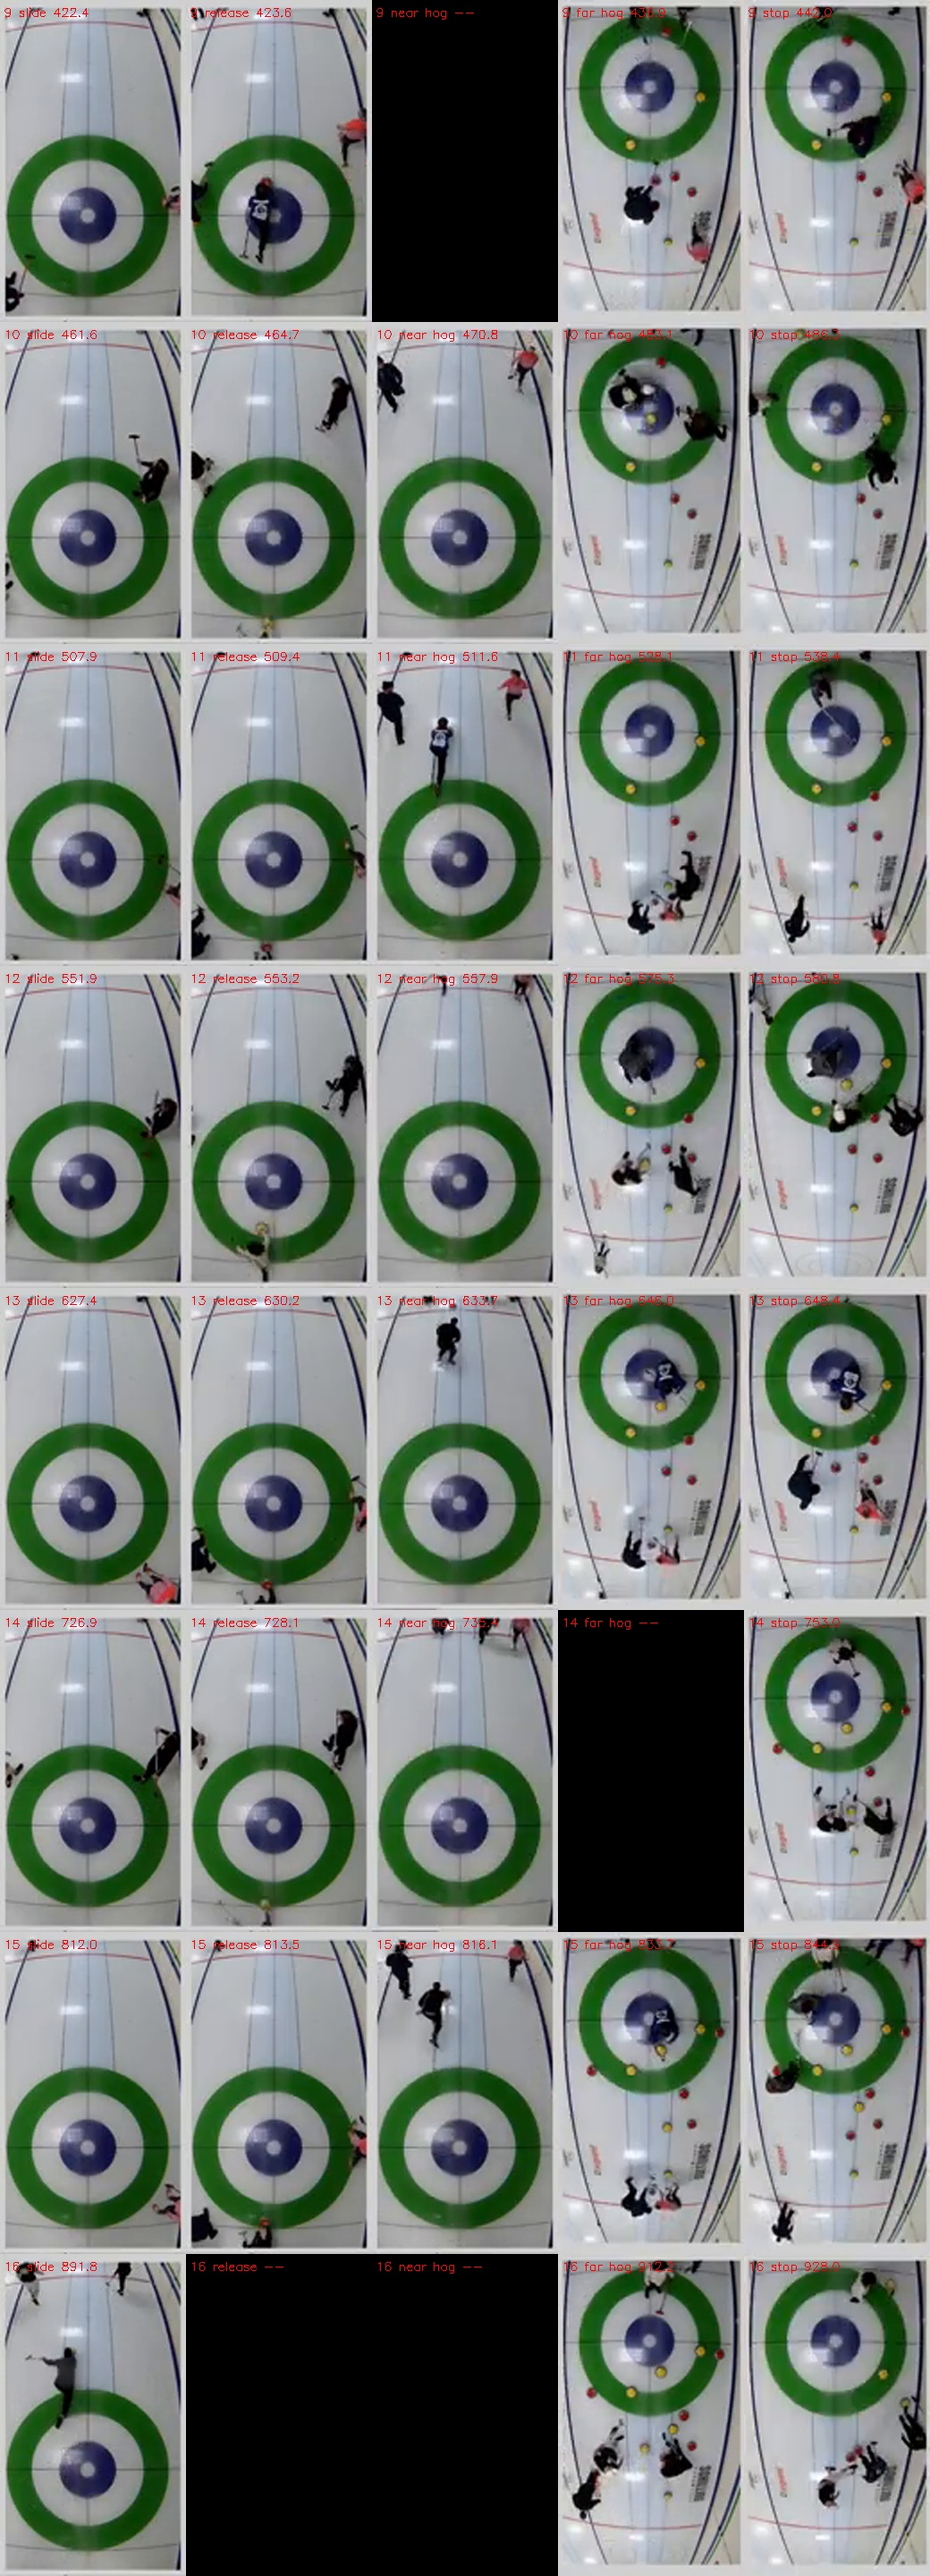
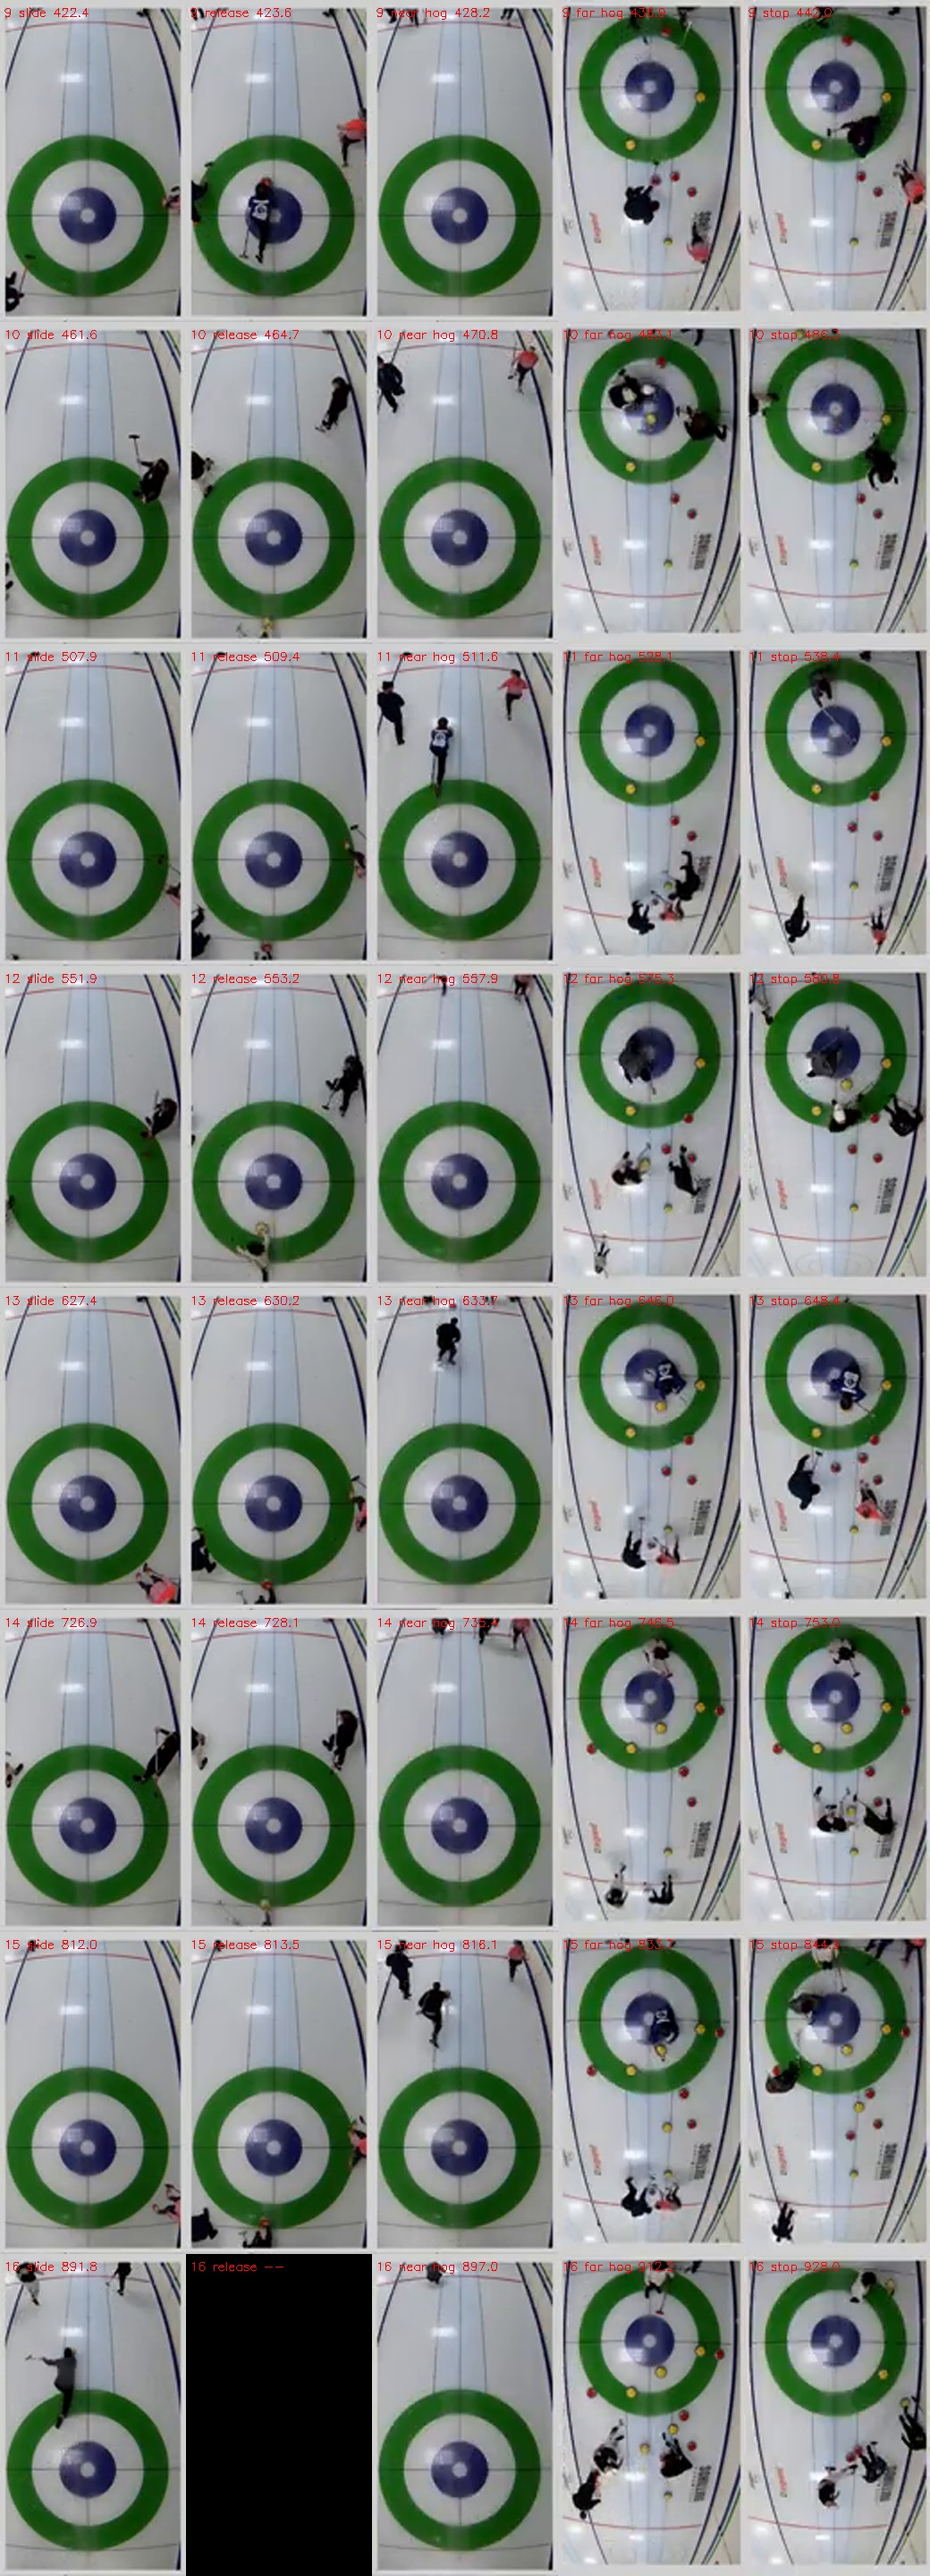
Results with kinematic fills: all hogline crossings now covered
near hog 16/16, far hog 16/16, stop 16/16, slide 16/16, release 14/16.

https://claude.ai/code/session_01MNKhrUA8bh9zUdwcJneQ2v

Changed region(s): [[0.5846, 0.625, 0.8, 0.75], [0.4, 0.875, 0.6154, 1.0], [0.4, 0.0, 0.6154, 0.125]]

diff --git a/results/validation.md b/results/validation.md
@@ -52,9 +52,22 @@ Per-shot phase coverage on the test end (16 shots):
 - slide begin: 16/16 (sweepers staged at the delivery hogline used to pin
   the body-front signal and mask the skip stones; mask-edge blobs are now
   excluded)
-- release (sweep-onset proxy): 14/16; near hogline: 11/16
-- far hogline: 12/16; stop: 16/16 (anchored search around the known rest
-  position recovers stops that blind chaining missed)
+- release (sweep-onset proxy): 14/16 — the two gaps (shots 5, 16) are
+  physical: zero stone-colored pixels exist in the delivery cam during
+  those windows (bodies fully occlude handle and brooms); fixing this
+  needs the down-ice panel, where the release is large and visible
+- near hogline: 16/16 (13 measured/extrapolated from the rock's own
+  track, 3 kinematically inferred)
+- far hogline: 16/16 (12 measured, 4 kinematically inferred); stop:
+  16/16 (anchored search around the known rest position recovers stops
+  that blind chaining missed)
+- kinematic inference: when one hogline crossing is invisible (lens
+  fringe + sweepers over the rock + red-on-red at the line), it is
+  computed from the measured anchors via a constant-deceleration model
+  (hog-to-hog = 72 ft, rest position known) with no free parameters;
+  cross-check on shot 1: model 37.1 s vs a one-frame handle flicker
+  observed at the line at 38.0 s. Inferred values are marked in the
+  'inferred' CSV column and inherit their anchors' errors (~±1-2 s)
 - resting position: 16/16 (12 from the arrival-cam dot track, 4 from the
   pre/post house-state diff fallback)
 
